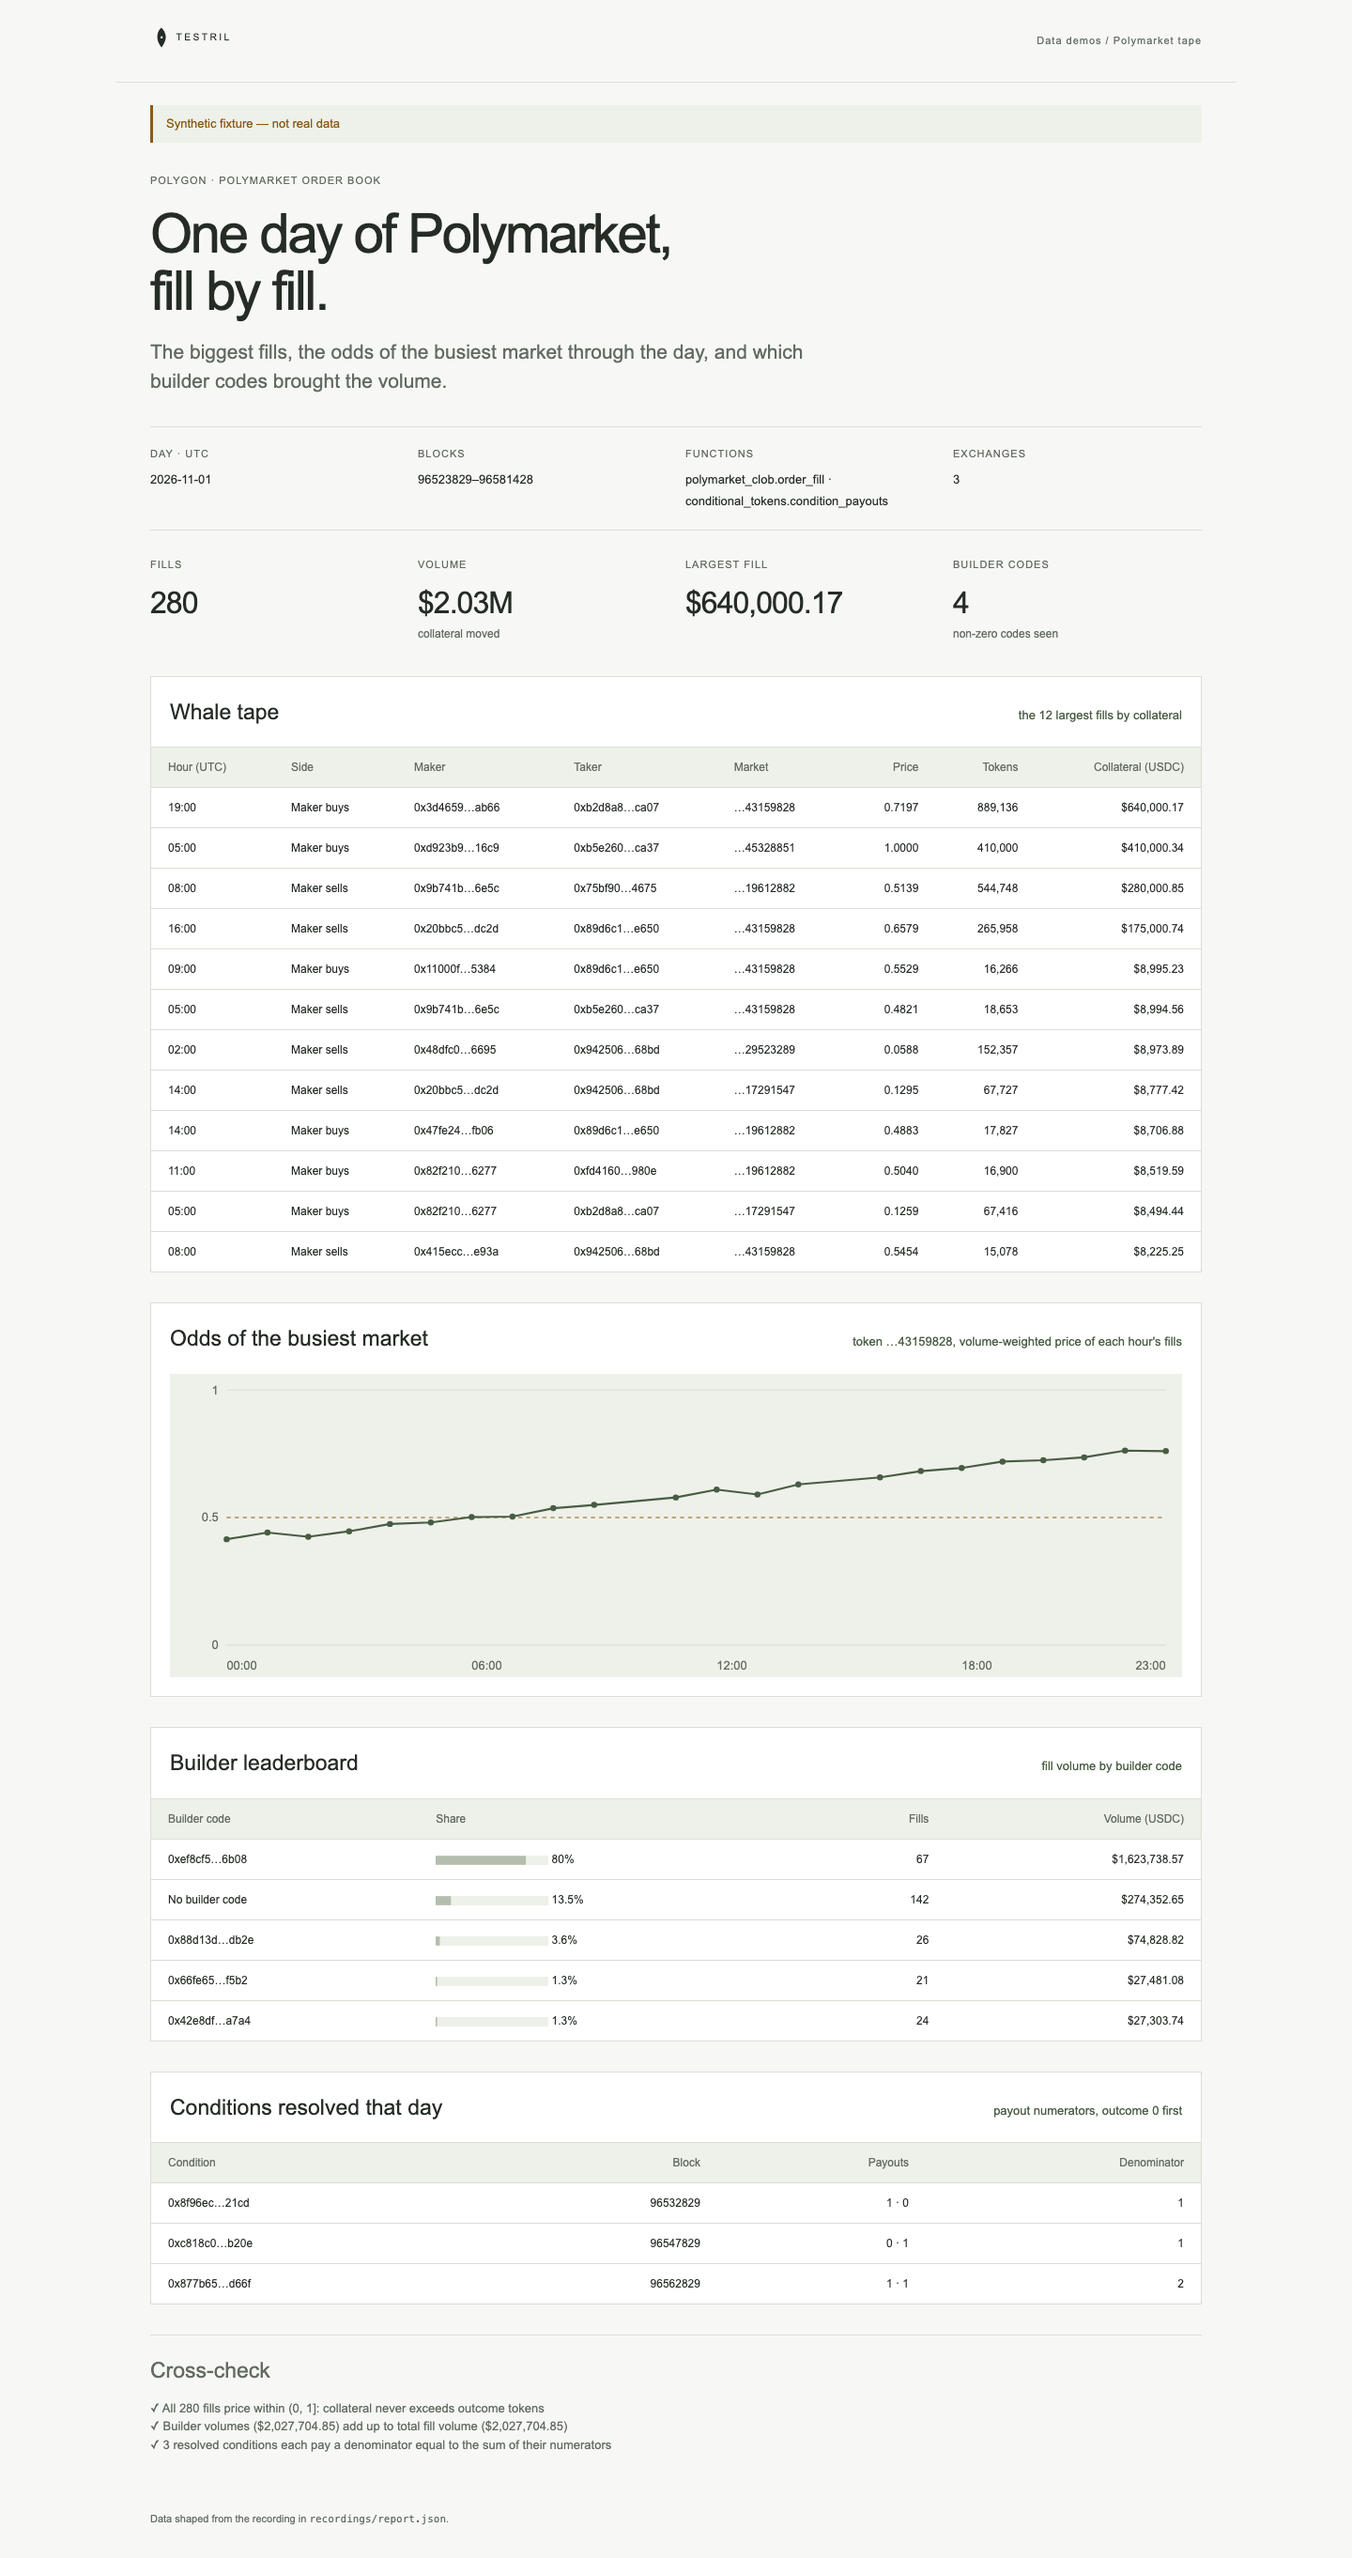
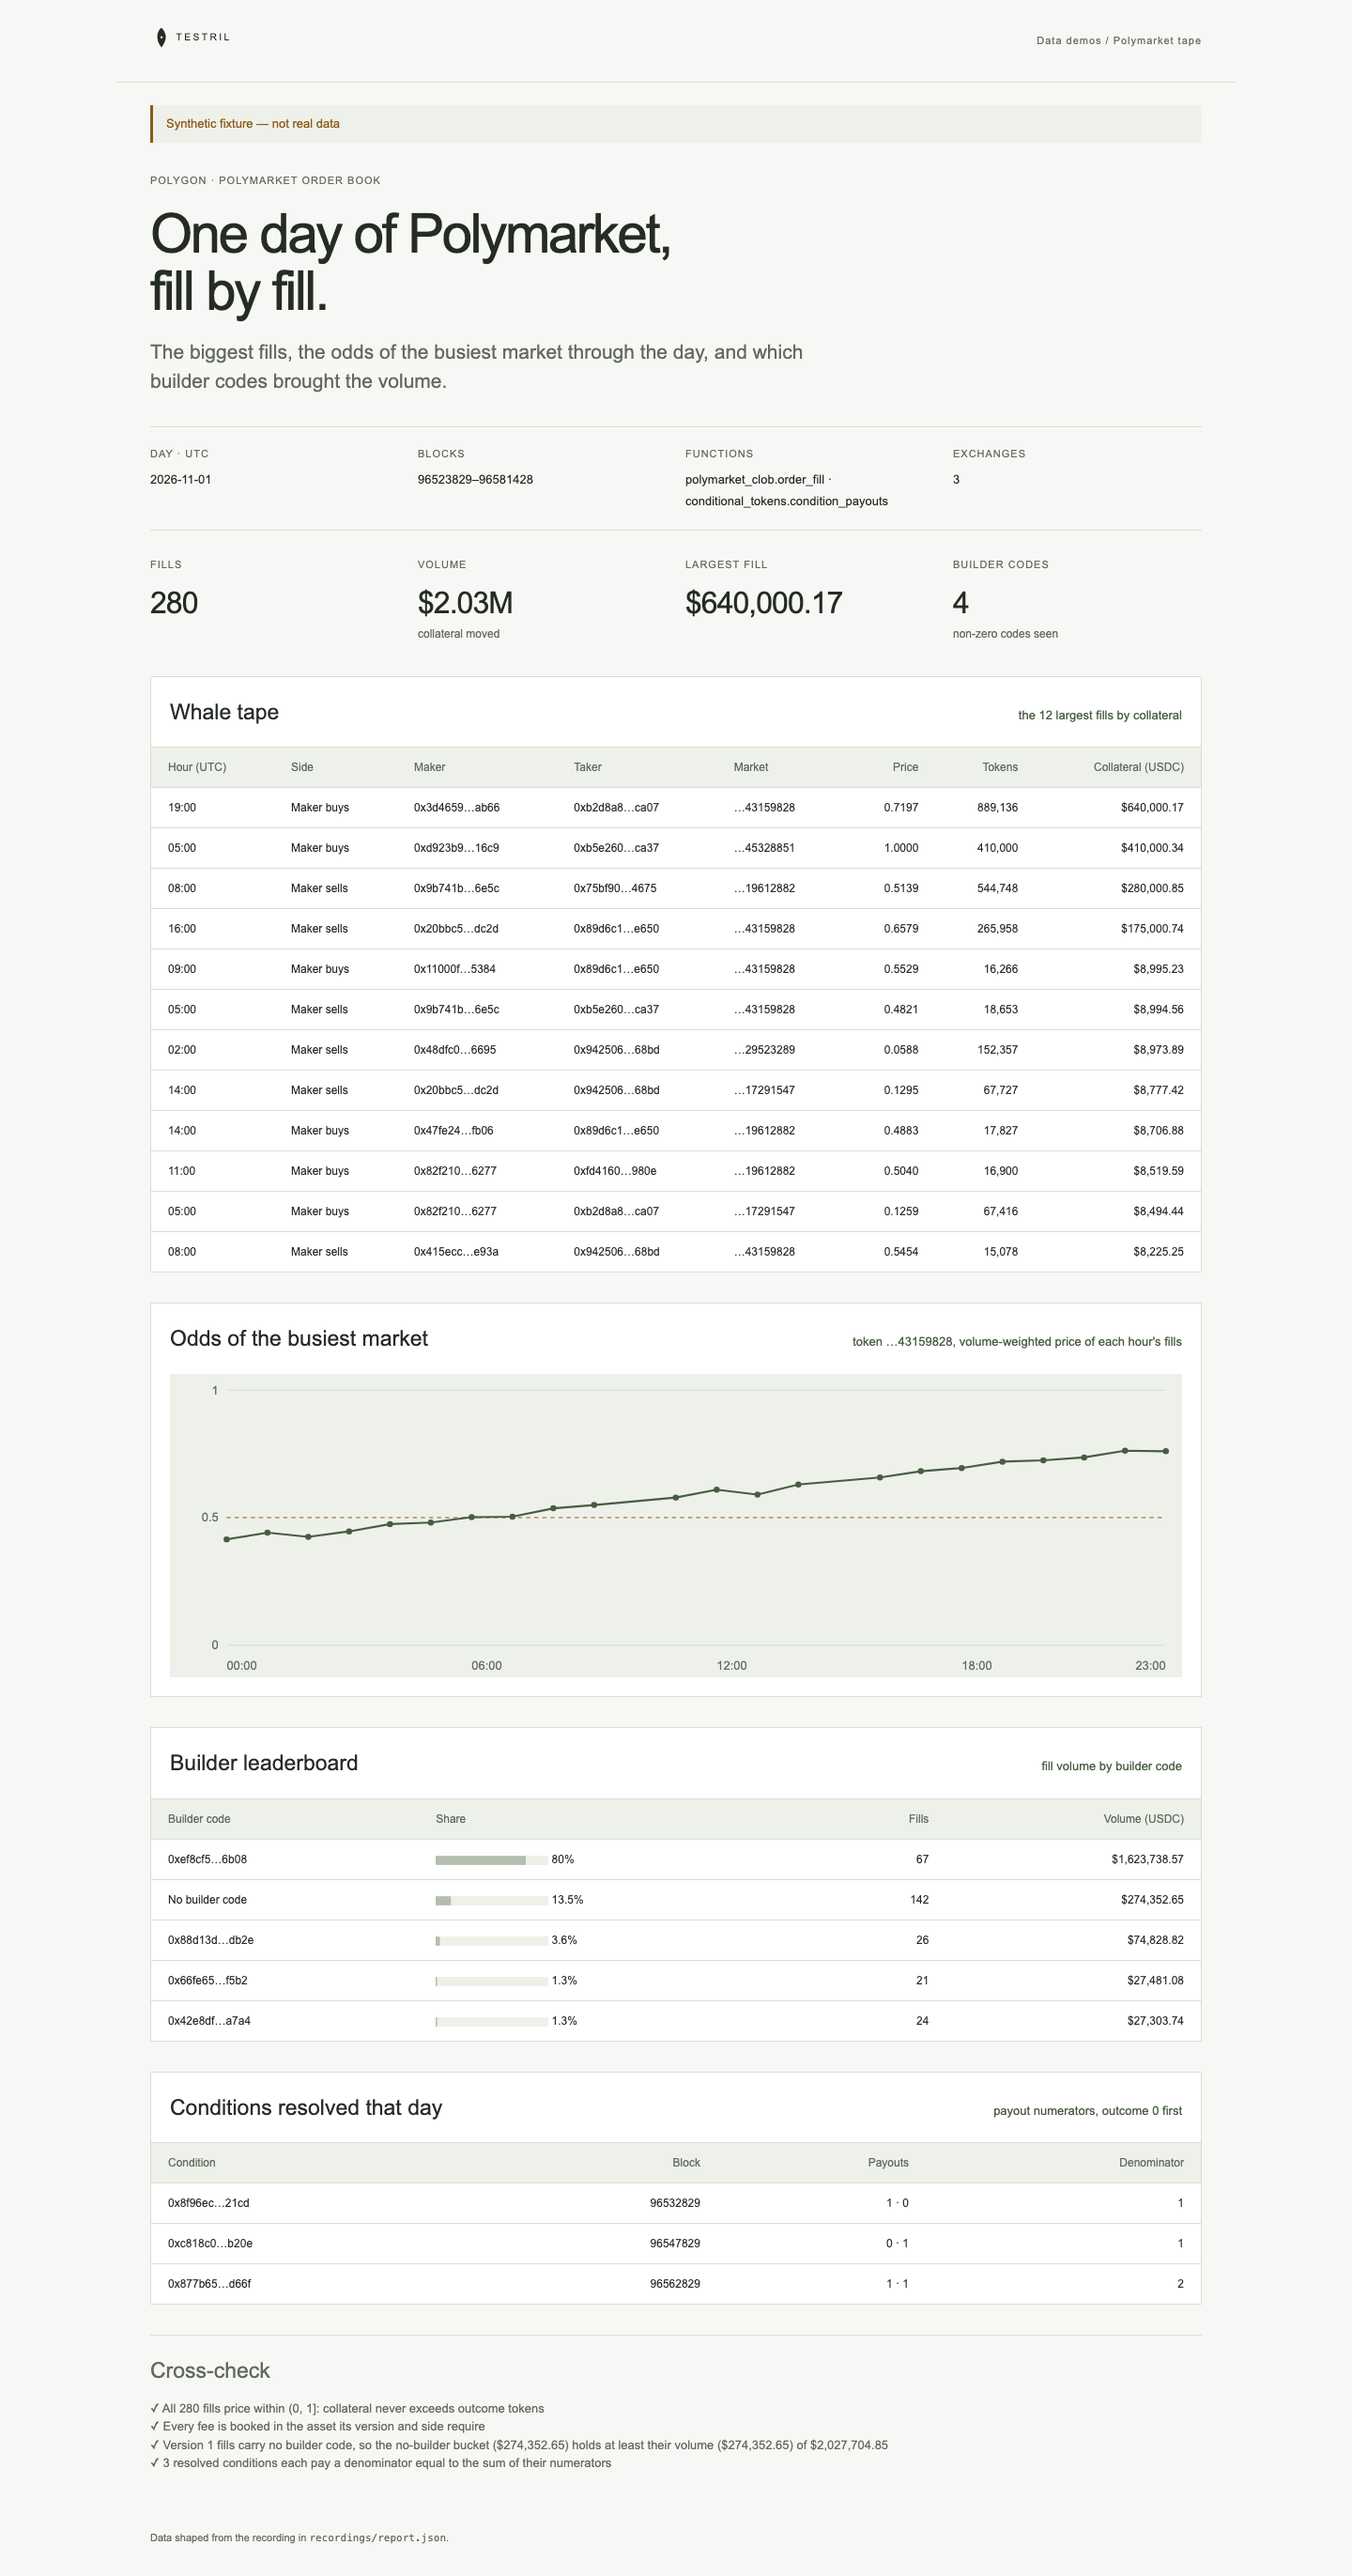
Fix polymarket-tape review findings: real builder, fee and payout checks

diff --git a/demos/polymarket-tape/README.md b/demos/polymarket-tape/README.md
@@ -4,7 +4,8 @@ One UTC day of Polymarket order-book fills on Polygon: the largest fills
 (whale tape), the implied odds of the busiest market per hour, and fill volume
 by builder code, plus the conditions that resolved that day. The page proves
 its numbers: every fill prices within (0, 1] (collateral over outcome tokens,
-compared as integers), builder volumes add up to total volume, and each
+compared as integers), every fee is booked in the asset its version and side require, version 1
+fills carry no builder code, and each
 resolved condition pays a denominator equal to the sum of its numerators.
 
 **The shipped recording is synthetic.** `recordings/report.json` is generated
@@ -29,7 +30,7 @@ npm start
 Open http://127.0.0.1:4180 (set `PORT` to change it). Expected result: the
 synthetic banner, four headline numbers, a table of the 12 largest fills, an
 hourly odds line for the busiest market, a builder leaderboard, the resolved
-conditions, and three passed cross-checks.
+conditions, and five passed cross-checks.
 
 ## Test
 
@@ -44,23 +45,25 @@ npm run format:check
 `npm test` checks the cross-checks pass on the fixture (including a fill at a
 price of exactly 1) and fail when amounts are swapped so a price exceeds 1,
 collateral is zero, a fill is outside the window, from an unnamed exchange or
-read twice, or a payout denominator is not the sum of its numerators; it also
+read twice, a fee is booked in the wrong asset, a version 1 fill carries a
+builder code, a condition resolves outside the window, or a payout denominator
+is not the sum of its numerators; it also
 checks the shaped tape, odds line and server. `npm run test:browser` writes
 `docs/screenshot-desktop.png`. `npm run fixture` regenerates the recording.
 
 ## Subjects and window
 
 Polygon (chain 137), 2026-11-01. Windows are half-open: the block window is
-`[96523829, 96581429)`, the 57,600 blocks from the first block at or after
-2026-11-01T00:00Z to the first block of 2026-11-02, found by binary search over
-a public RPC. The page buckets fills into hours of 2,400 blocks.
+`[96523829, 96581429)`, 57,600 blocks, the nominal Polygon blocks per day.
+**Verify before recording:** both bounds were not checked against block
+timestamps; to_block should be the first block of 2026-11-02. The page buckets fills into hours of 2,400 blocks.
 
 | Subject                         | Address                                      | Note                                         |
 | ------------------------------- | -------------------------------------------- | -------------------------------------------- |
 | Polymarket CTF Exchange         | `0x4bfb41d5b3570defd03c39a9a4d8de6bd8b8982e` | version 1, no builder codes                  |
 | Polymarket NegRisk CTF Exchange | `0xc5d563a36ae78145c45a50134d48a1215220f80a` | version 1, no builder codes                  |
 | Polymarket exchange (version 2) | `0xe2222d279d744050d28e00520010520000310f59` | verify before recording; emits builder codes |
-| ConditionalTokens (CTF)         | `0x4d97dcd97ec945f40cf65f87097ace5ea0476045` | verify before recording                      |
+| ConditionalTokens (CTF)         | `0x4d97dcd97ec945f40cf65f87097ace5ea0476045` |                                              |
 
 Builder codes exist only on version 2 fills, so version 1 fills appear as "No
 builder code". Payouts are read for the same day only; the page does not link a
